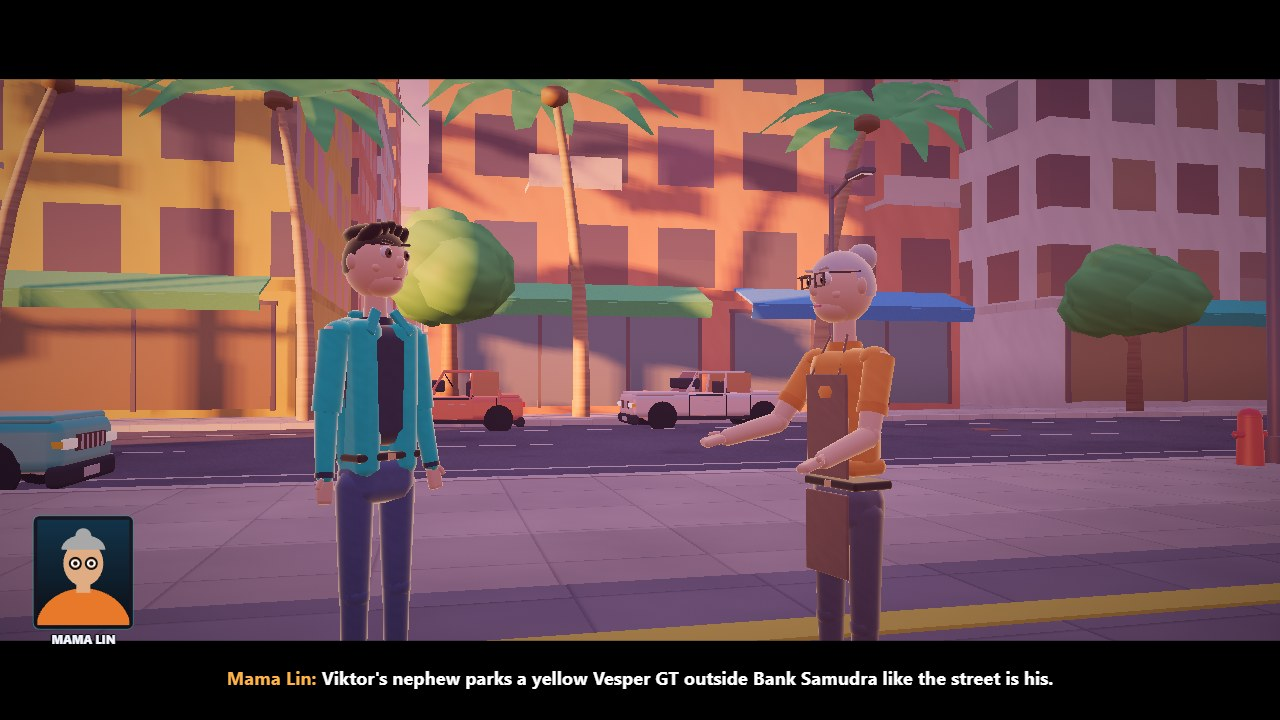
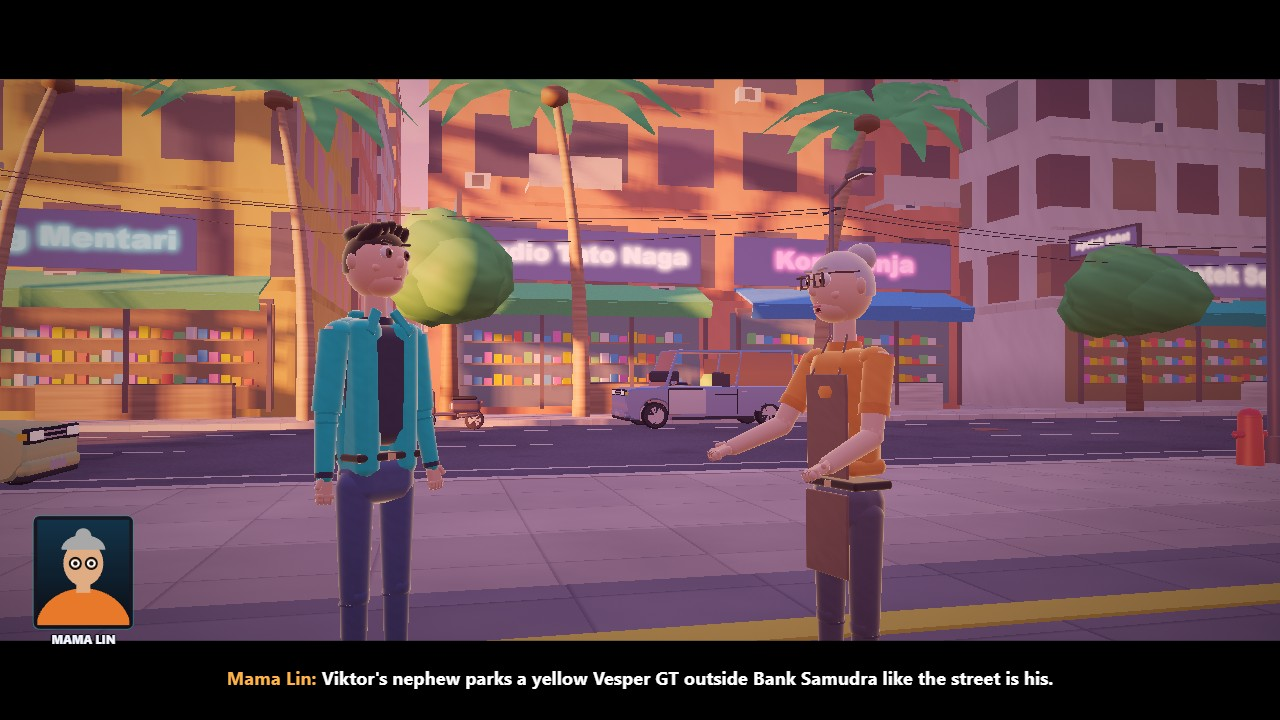
Screenshots retaken on High: soft searchlight shaft on the cover, earlier docks capture with the fireball's bright core, darker inside-lit smoke, map opens zoomed to the city; README gallery and DEVLOG updated

diff --git a/game/js/fx/searchlight.js b/game/js/fx/searchlight.js
@@ -37,7 +37,7 @@ void main() {
   // Soft volume: brightest where the view looks through the middle of the shaft, fading to nothing
   // at its silhouette, and dimmer towards the ground.
   float facing = abs(dot(normalize(vN), normalize(uCamPos - vW)));
-  float a = (1.0 - vT * 0.7) * 0.06 * uStrength * facing;
+  float a = (1.0 - vT * 0.8) * 0.06 * uStrength * pow(facing, 1.5);
   fragColor = vec4(vec3(1.0, 0.97, 0.88) * a, 1.0);
 }
 `;
@@ -77,9 +77,9 @@ export class Searchlight {
       gl.uniform3fv(p.u('uCamPos'), renderer.camera.pos);
       gl.uniform3fv(p.u('uTo'), s);
       // The visible shaft is the bright core of the spot (narrower than its full light cone).
-      gl.uniform1f(p.u('uRadius'), Math.min(3.2, l * 0.07));
+      gl.uniform1f(p.u('uRadius'), Math.min(2.4, l * 0.06));
       // The scene is HDR before exposure, so the beam must be far brighter by day to read as haze at all.
-      gl.uniform1f(p.u('uStrength'), 3.0 + (1 - renderer.env.night) * 6);
+      gl.uniform1f(p.u('uStrength'), 3.0 + (1 - renderer.env.night) * 5.0);
       gl.blendFunc(gl.ONE, gl.ONE);
       gl.disable(gl.CULL_FACE);
       gl.bindVertexArray(this.vao);

diff --git a/game/js/fx/particles.js b/game/js/fx/particles.js
@@ -217,7 +217,7 @@ export class Particles {
     for (let k = 0; k < 26; k++) {
       const a = Math.random() * 6.28, s = (1 + Math.random() * 3) * scale;
       // Smoke lit from inside: starts warm and glowing, cools to dark grey.
-      this.spawn({ x: x + Math.cos(a) * 0.8, y: y + 1 + Math.random() * 2, z: z + Math.sin(a) * 0.8, vx: Math.cos(a) * s, vy: 2 + Math.random() * 3, vz: Math.sin(a) * s, life: 3 + Math.random() * 2, size: 1.2 * scale, size1: 4.2 * scale, col: [1.5, 0.5, 0.16, 0.9], col1: [0.05, 0.05, 0.05, 0], kind: PK.SMOKE, drag: 0.9 });
+      this.spawn({ x: x + Math.cos(a) * 0.8, y: y + 1 + Math.random() * 2, z: z + Math.sin(a) * 0.8, vx: Math.cos(a) * s, vy: 2 + Math.random() * 3, vz: Math.sin(a) * s, life: 3 + Math.random() * 2, size: 1.2 * scale, size1: 4.2 * scale, col: [0.85, 0.3, 0.1, 0.92], col1: [0.05, 0.05, 0.05, 0], kind: PK.SMOKE, drag: 0.9 });
     }
     this.sparks(x, y + 0.5, z, 0, 1, 0, 30, [9, 5, 1.5]);
     // Shockwave: a ring of dust racing outwards along the ground with a hot, thin leading edge.

diff --git a/game/js/ui/bigmap.js b/game/js/ui/bigmap.js
@@ -22,7 +22,7 @@ export class BigMap {
   constructor(world, hud) {
     this.world = world;
     this.hud = hud;
-    this.zoom = 1;
+    this.zoom = 1.4; // the city fills the space between the legend and the dossier; the wheel zooms
     this.open = false;
     this.canvas = document.getElementById('hud');
     addEventListener('mousedown', (e) => this.onClick(e));
@@ -34,8 +34,8 @@ export class BigMap {
     const size = Math.min(W, H) * 0.9 * this.zoom;
     const scale = size / MAP_SIZE;
     const p = this.world.player;
-    const cx = this.zoom > 1 ? W / 2 - (p.x - MAP_MIN - MAP_SIZE / 2) * scale : W / 2;
-    const cy = this.zoom > 1 ? H / 2 - (p.z - MAP_MIN - MAP_SIZE / 2) * scale : H / 2;
+    const cx = this.zoom > 1.6 ? W / 2 - (p.x - MAP_MIN - MAP_SIZE / 2) * scale : W / 2;
+    const cy = this.zoom > 1.6 ? H / 2 - (p.z - MAP_MIN - MAP_SIZE / 2) * scale : H / 2;
     return { x0: cx - size / 2, y0: cy - size / 2, scale };
   }
 

diff --git a/game/js/debug/shots.js b/game/js/debug/shots.js
@@ -213,7 +213,7 @@ export async function runShot(app, name) {
     truck.damage(5000);
     // Catch the fireball while it is still orange, on a frame right after a guard fires.
     const t0 = g.time;
-    await new Promise((res) => { const f = () => ((g.time > t0 + 0.2 && g.time - npcShot < 0.05) || g.time > t0 + 0.55 ? res() : requestAnimationFrame(f)); f(); });
+    await new Promise((res) => { const f = () => ((g.time > t0 + 0.11 && g.time - npcShot < 0.06) || g.time > t0 + 0.26 ? res() : requestAnimationFrame(f)); f(); });
   } else if (name === 'kaicop') {
     midGame(app);
     app.setState('playing');

diff --git a/docs/DEVLOG.md b/docs/DEVLOG.md
@@ -1,8 +1,8 @@
 # SELARA BAY — Dev log
 
 ## Current step
-Polish pass after the final checkpoint: dossier coverage, HUD mission tracker, Indonesian street life,
-new screenshots, main.ts revision 4 (coverage report).
+Competitive polish pass: screenshot fixes, vehicle models, street detail, effects, character faces,
+dossier coverage of the UI and radio, all four screenshots retaken.
 
 ## Kit contract (gta6-01), summarized from RULES.txt / competition.yaml / starter
 - **main.ts** at repo root, Node 22, standard library only. Copies `game/` and `screenshots/` to
@@ -56,7 +56,7 @@ the engine's mesh builder (meshes come from `models.js`, a model library the wor
 scripts live in `story/mission-scripts.js` and are installed onto the mission system. index.html opens with
 a design overview. Nothing was removed or hidden: every source still ships and is listed in the dossier.
 
-Final report from `node main.ts` (21 whole, 1 cut, 54 left out of 76 sources):
+Report after that first pass (21 whole, 1 cut, 54 left out; superseded by the polish pass below):
 index.html, js/main.js, js/systems.js, js/story/missions.js, js/story/cutscene-camera.js, js/core/math.js,
 js/story/dialogue.js, js/save.js, js/ai/police.js, js/ai/traffic.js, js/world/roads.js, js/world/layout.js,
 js/combat/weapons.js, js/combat/arsenal.js, js/entities/player.js, js/entities/animator.js,
@@ -74,6 +74,37 @@ js/entities/pedestrian.js — whole; js/ui/hud.js — cut (364/468 lines shown).
 - Screenshots: 01-golden-hour-chase, 02-mission-cutscene (renamed), 03-map-dossier, 04-docks-firefight.
   The docks shot keeps Kai at ~24% of frame height; a camera 2.5–3 m behind him would make him ~60–70%
   of the frame, so the framing target won over the distance.
+
+## Competitive polish pass
+- Screenshots: the Rajawali sits high in the cover with a soft volumetric searchlight shaft (the beam
+  is far brighter by day because the scene is HDR before exposure); one map label per district, placed
+  clear of icons; the map opens zoomed to the city; docks guards alive and firing.
+- Explosions: a white-hot core, then a fireball of alpha-blended noisy-edged puffs (yellow core,
+  orange-red rim, new particle kind) that rolls upward, a ground shockwave ring with a hot leading
+  edge, dark chunks and glowing embers, dark smoke lit from inside, a scorch decal.
+- Vehicles: `MeshBuilder.loft` builds bodies from side profiles; the bottom chain carries real
+  wheel-arch cut-outs and the flanks are triangulated by merging the top and bottom chains. Tyres with
+  shoulders and sidewalls, recessed rims, brake discs; light housings, grille, wraparound bumpers,
+  mirrors on arms. The Vesper GT is a wedge with a ducktail. Police cruisers carry a segmented lightbar
+  and navy POLISI SELARA lettering in a 5x7 pixel font. Bug found: the paint material replaces vertex
+  colour, so the old navy panels never showed; livery now uses the plain material.
+- Streets: shop windows show stocked shelves and a counter or a closed roller shutter; floor ledges,
+  AC units, potted plants; sagging power and phone lines strung between street poles outside
+  downtown. All placed by fixed patterns, so the seeded city layout did not move.
+- Effects: rain splashes on the ground near the camera; dust (dry) or spray (wet) behind fast cars.
+- Characters: two face bones under the head (jaw, lids): the mouth opens with a syllable rhythm while
+  talking, periodic blinks, eyes shut when down; 14-segment limbs, cloth creases, finger grooves.
+- Dossier: systems.js now lists the HUD, the map & dossier screen, the player and the radio ahead of
+  vehicles and pedestrians. core/math.js cannot move later: every early gameplay module imports it.
+- Playtest bot: line of sight uses the bullets' obstacle filter, steps sideways when wedged, waits out
+  the shared respray/gun-shop cooldown, and approaches the gun counter from a clear side.
+
+Final coverage (22 whole, 1 cut, 53 left out of 76 sources): index.html, js/main.js, js/systems.js,
+js/story/missions.js, js/story/cutscene-camera.js, js/core/math.js, js/story/dialogue.js, js/save.js,
+js/ai/police.js, js/ai/traffic.js, js/world/roads.js, js/world/layout.js, js/combat/weapons.js,
+js/combat/arsenal.js, js/ui/hud.js, js/ui/minimap.js, js/ui/bigmap.js, js/entities/player.js,
+js/entities/animator.js, js/entities/looks.js, js/entities/car-entry.js, js/audio/music/radio.js —
+whole; js/audio/music/sequencer.js — cut (8/179 lines shown).
 
 ## Open bugs / notes
 - The automated driver in the playtest is heuristic; occasional retries may be needed on busy roads.

diff --git a/README.md b/README.md
@@ -17,13 +17,17 @@ Viktor Raza's Black Orchid syndicate squeezing the coast.
   pursuits, officers on foot, roadblocks and the Rajawali helicopter; four weapons, gang cover AI,
   explosions; HUD with a mission tracker, rotating minimap and GPS, a map & dossier screen, save games.
 - **Street life:** readable shop and blade signs (Es Cendol, Kopi Senja, Bengkel Motor, Mie Ombak, Bakso
-  Lestari, Laundry Kilau…) and warung carts with striped umbrellas on the sidewalks.
+  Lestari, Laundry Kilau…), shop windows with stocked shelves or roller shutters, warung carts with
+  striped umbrellas, potted plants, AC units on the facades and sagging power lines between the poles.
+- **Look:** cars lofted from side profiles with real wheel arches; police cruisers in navy POLISI SELARA
+  livery with segmented lightbars; characters that blink and move their mouths while they talk;
+  fireballs with a shockwave ring, debris and scorch marks; rain splashes and road spray.
 - **Soundtrack:** three radio stations and a score, all synthesized live (see [MUSIC.md](MUSIC.md)).
 
 ## Screenshots
 
-![Golden-hour chase: the Vesper GT sliding up a Kemuning shop street with four stars, cruisers behind and Gamelan Wave on the radio](screenshots/01-golden-hour-chase.jpg)
-![Mission cutscene: Kai and Mama Lin in the garage bay](screenshots/02-mission-cutscene.jpg)
+![Golden-hour chase: the Vesper GT racing up a shop street at four stars, POLISI SELARA cruisers and the Rajawali helicopter behind it, Gamelan Wave on the radio](screenshots/01-golden-hour-chase.jpg)
+![Mission cutscene: Mama Lin briefs Kai outside Lin's Garage](screenshots/02-mission-cutscene.jpg)
 ![Pause > Map & Dossier: districts, legend, blips, waypoint, missions, side content and stats](screenshots/03-map-dossier.jpg)
 ![Low Tide: night firefight at Pier 9 as the Bison explodes](screenshots/04-docks-firefight.jpg)
 
